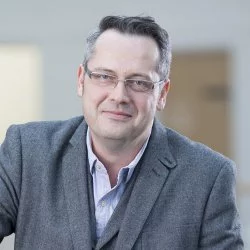
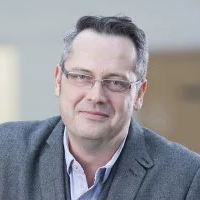
Rescal images & add James Elder

diff --git a/index.md b/index.md
@@ -20,17 +20,25 @@ Welcome to the **Monocular Depth Estimation Challenge Workshop** organized at [W
 ---
 
 ## :trophy: Challenge {#challenge}
-TBA
+**TBA**
 
 ---
 
 ## :microphone: Keynote Speakers {#speakers}
-TBA
+
+<figure>
+    <a href="https://www.elderlab.yorku.ca/jelder/">
+    <img class="author" src="assets/imgs/james_elder.jpg" alt="James Elder"/></a>
+    <b><br><a href="https://www.elderlab.yorku.ca/jelder/">James Elder</a>
+    <br>Professor <br>York University</b>
+</figure>
+
+**TBA**
 
 ---
 
 ## :calendar: Schedule {#schedule}
-TBA
+**TBA**
 
 ---
 
